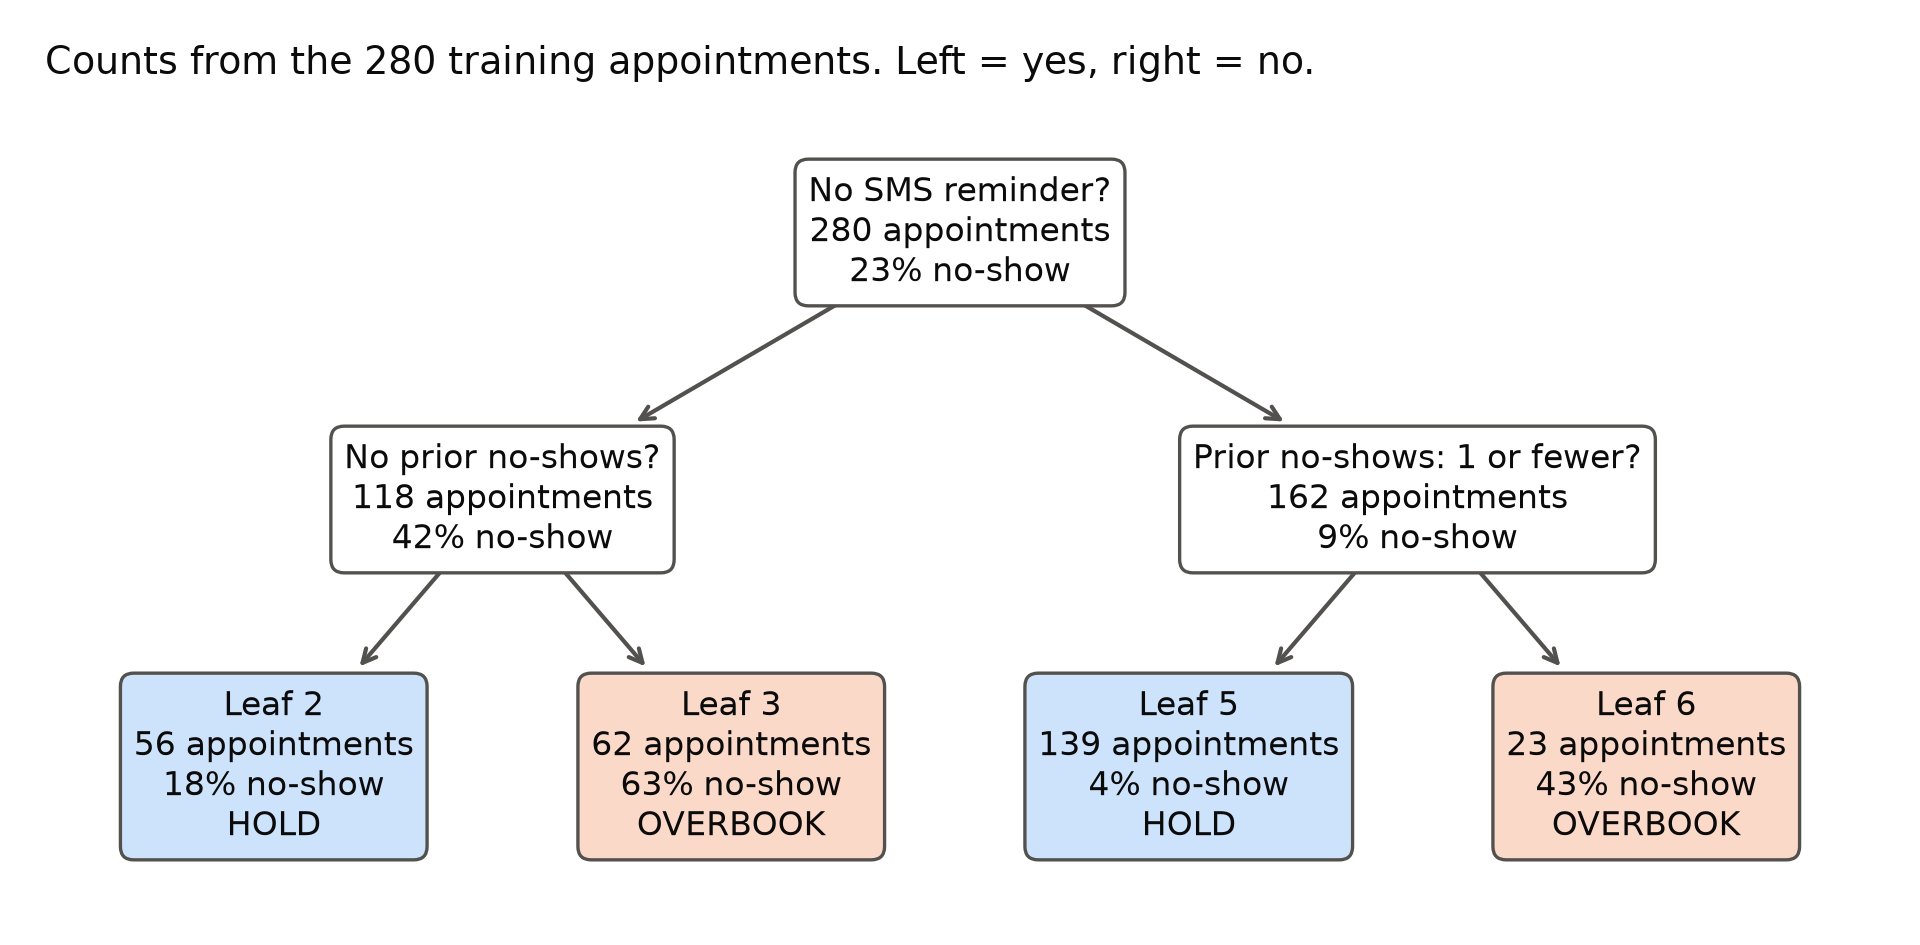
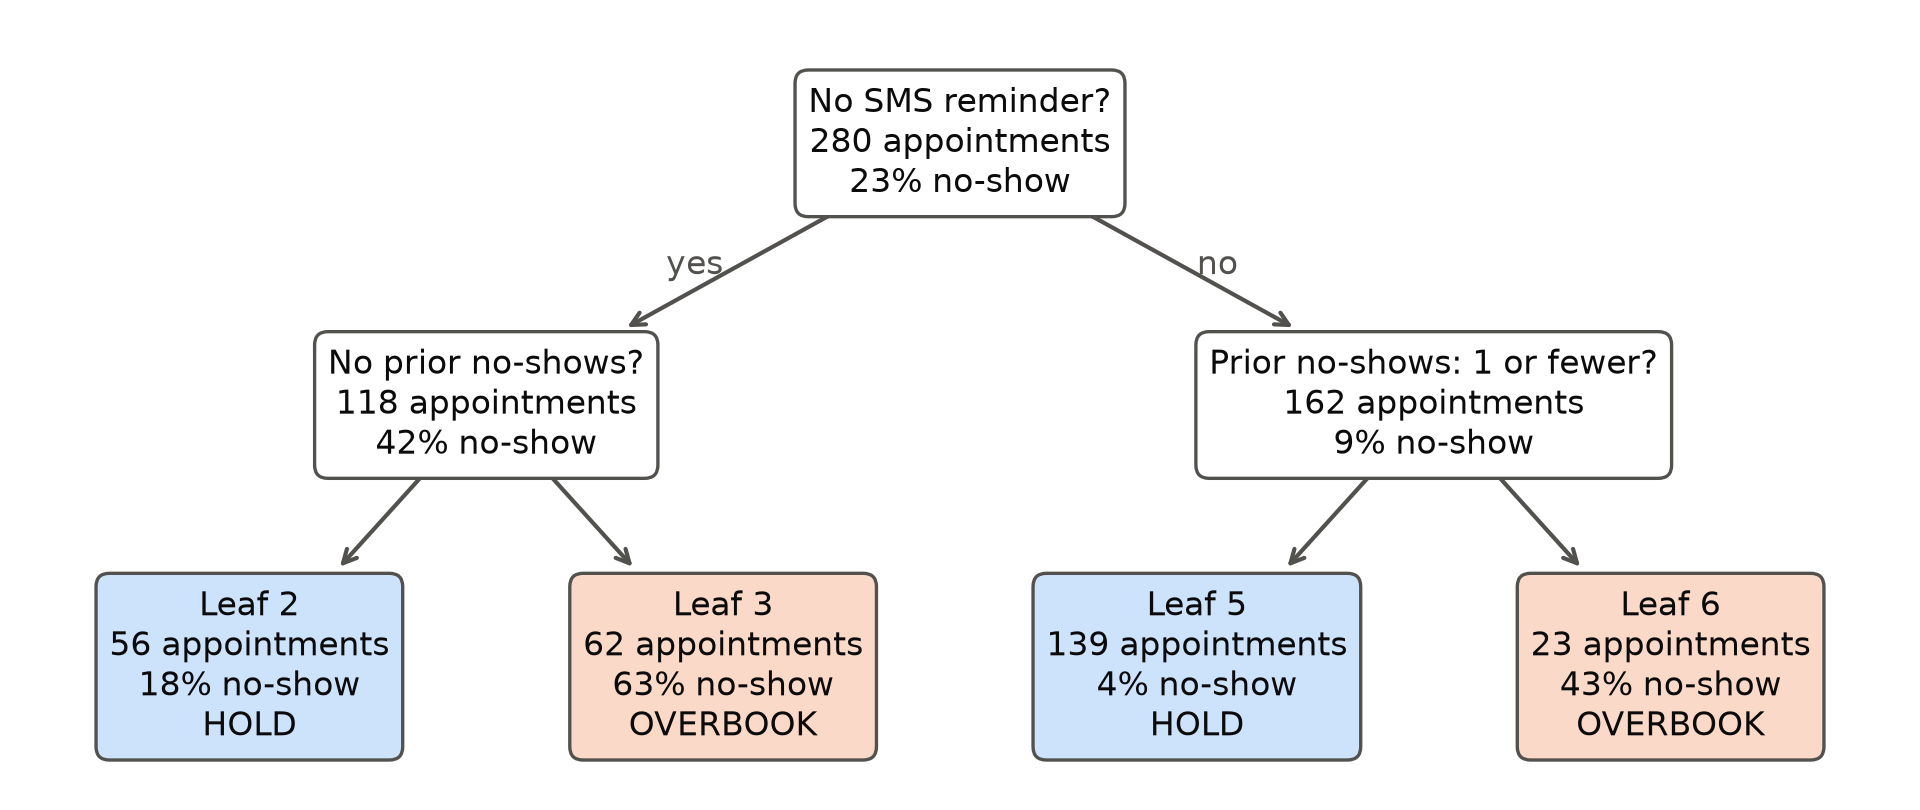
Label the compact tree's branches instead of titling it

diff --git a/decision_tree_clinic/analysis.py b/decision_tree_clinic/analysis.py
@@ -231,7 +231,11 @@ def draw_tree(filename, figsize, dpi, font, title):
     # the node boxes, which come back in node-id order.
     branch_labels = [a for a in annotations if a.get_text().strip() in ("True", "False")]
     for a in branch_labels:
-        a.set_visible(False)
+        if title:
+            a.set_visible(False)             # the title explains the branches
+        else:                                # no title: label the two root branches
+            a.set_text("yes" if a.get_text().strip() == "True" else "no")
+            a.set_color(MUTED)
     node_boxes = [a for a in annotations if a not in branch_labels]
     assert len(node_boxes) == tree.node_count
     for i, ann in enumerate(node_boxes):
@@ -250,8 +254,9 @@ def draw_tree(filename, figsize, dpi, font, title):
                           linewidth=0.8))
         if ann.arrow_patch is not None:
             ann.arrow_patch.set_color(MUTED)
-    ax.set_title(title, loc="left", fontsize=font + 1, color=INK)
-    fig.tight_layout()
+    if title:
+        ax.set_title(title, loc="left", fontsize=font + 1, color=INK)
+    fig.tight_layout(pad=0.3)
     fig.savefig(OUT / filename, facecolor="white")
     plt.close(fig)
 
@@ -260,8 +265,7 @@ def draw_tree(filename, figsize, dpi, font, title):
 draw_tree("tree.png", (max(8.0, 2.3 * n_leaves), 1.9 * (v1.get_depth() + 1)), 200, 9,
           f"v1 tree (depth {v1.get_depth()}), counts from the {len(train)} training "
           "appointments.  Left branch = yes, right branch = no.")
-draw_tree("tree_compact.png", (1.6 * n_leaves, 1.05 * (v1.get_depth() + 1)), 300, 8,
-          f"Counts from the {len(train)} training appointments. Left = yes, right = no.")
+draw_tree("tree_compact.png", (1.6 * n_leaves, 0.9 * (v1.get_depth() + 1)), 300, 8, None)
 
 # ---------------------------------------------------------------- value chart
 BLUE, ORANGE, GRID = "#2a78d6", "#eb6834", "#e4e3df"
